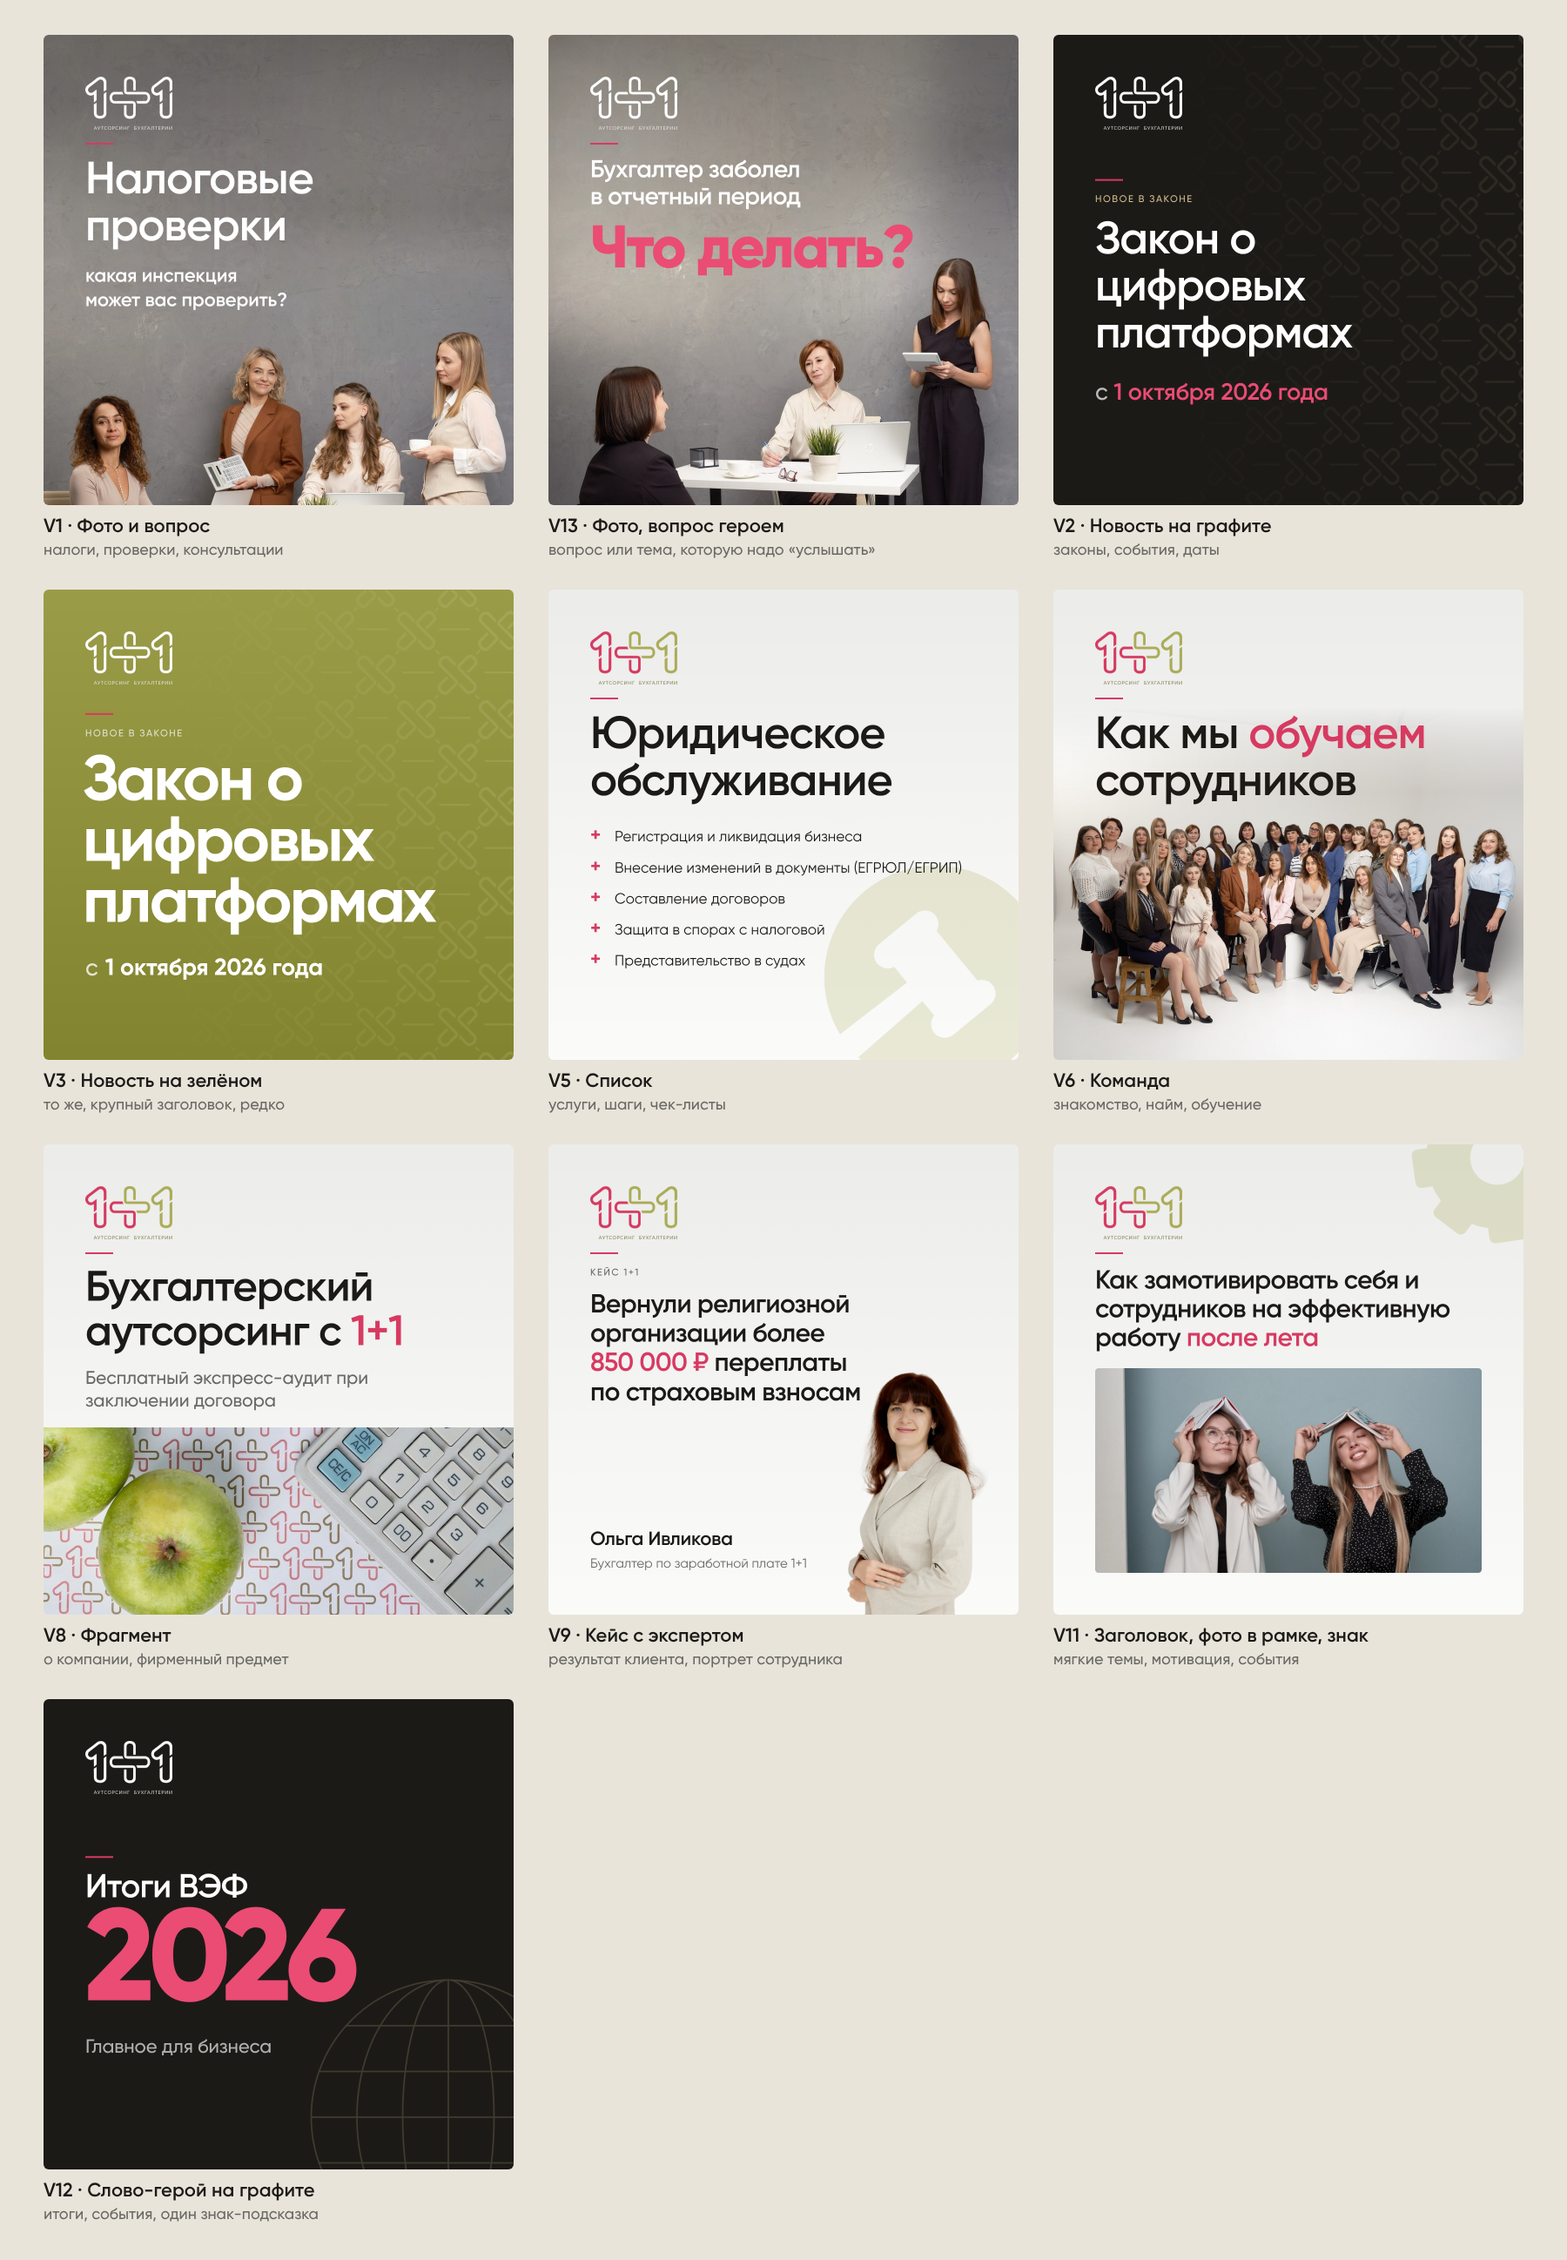
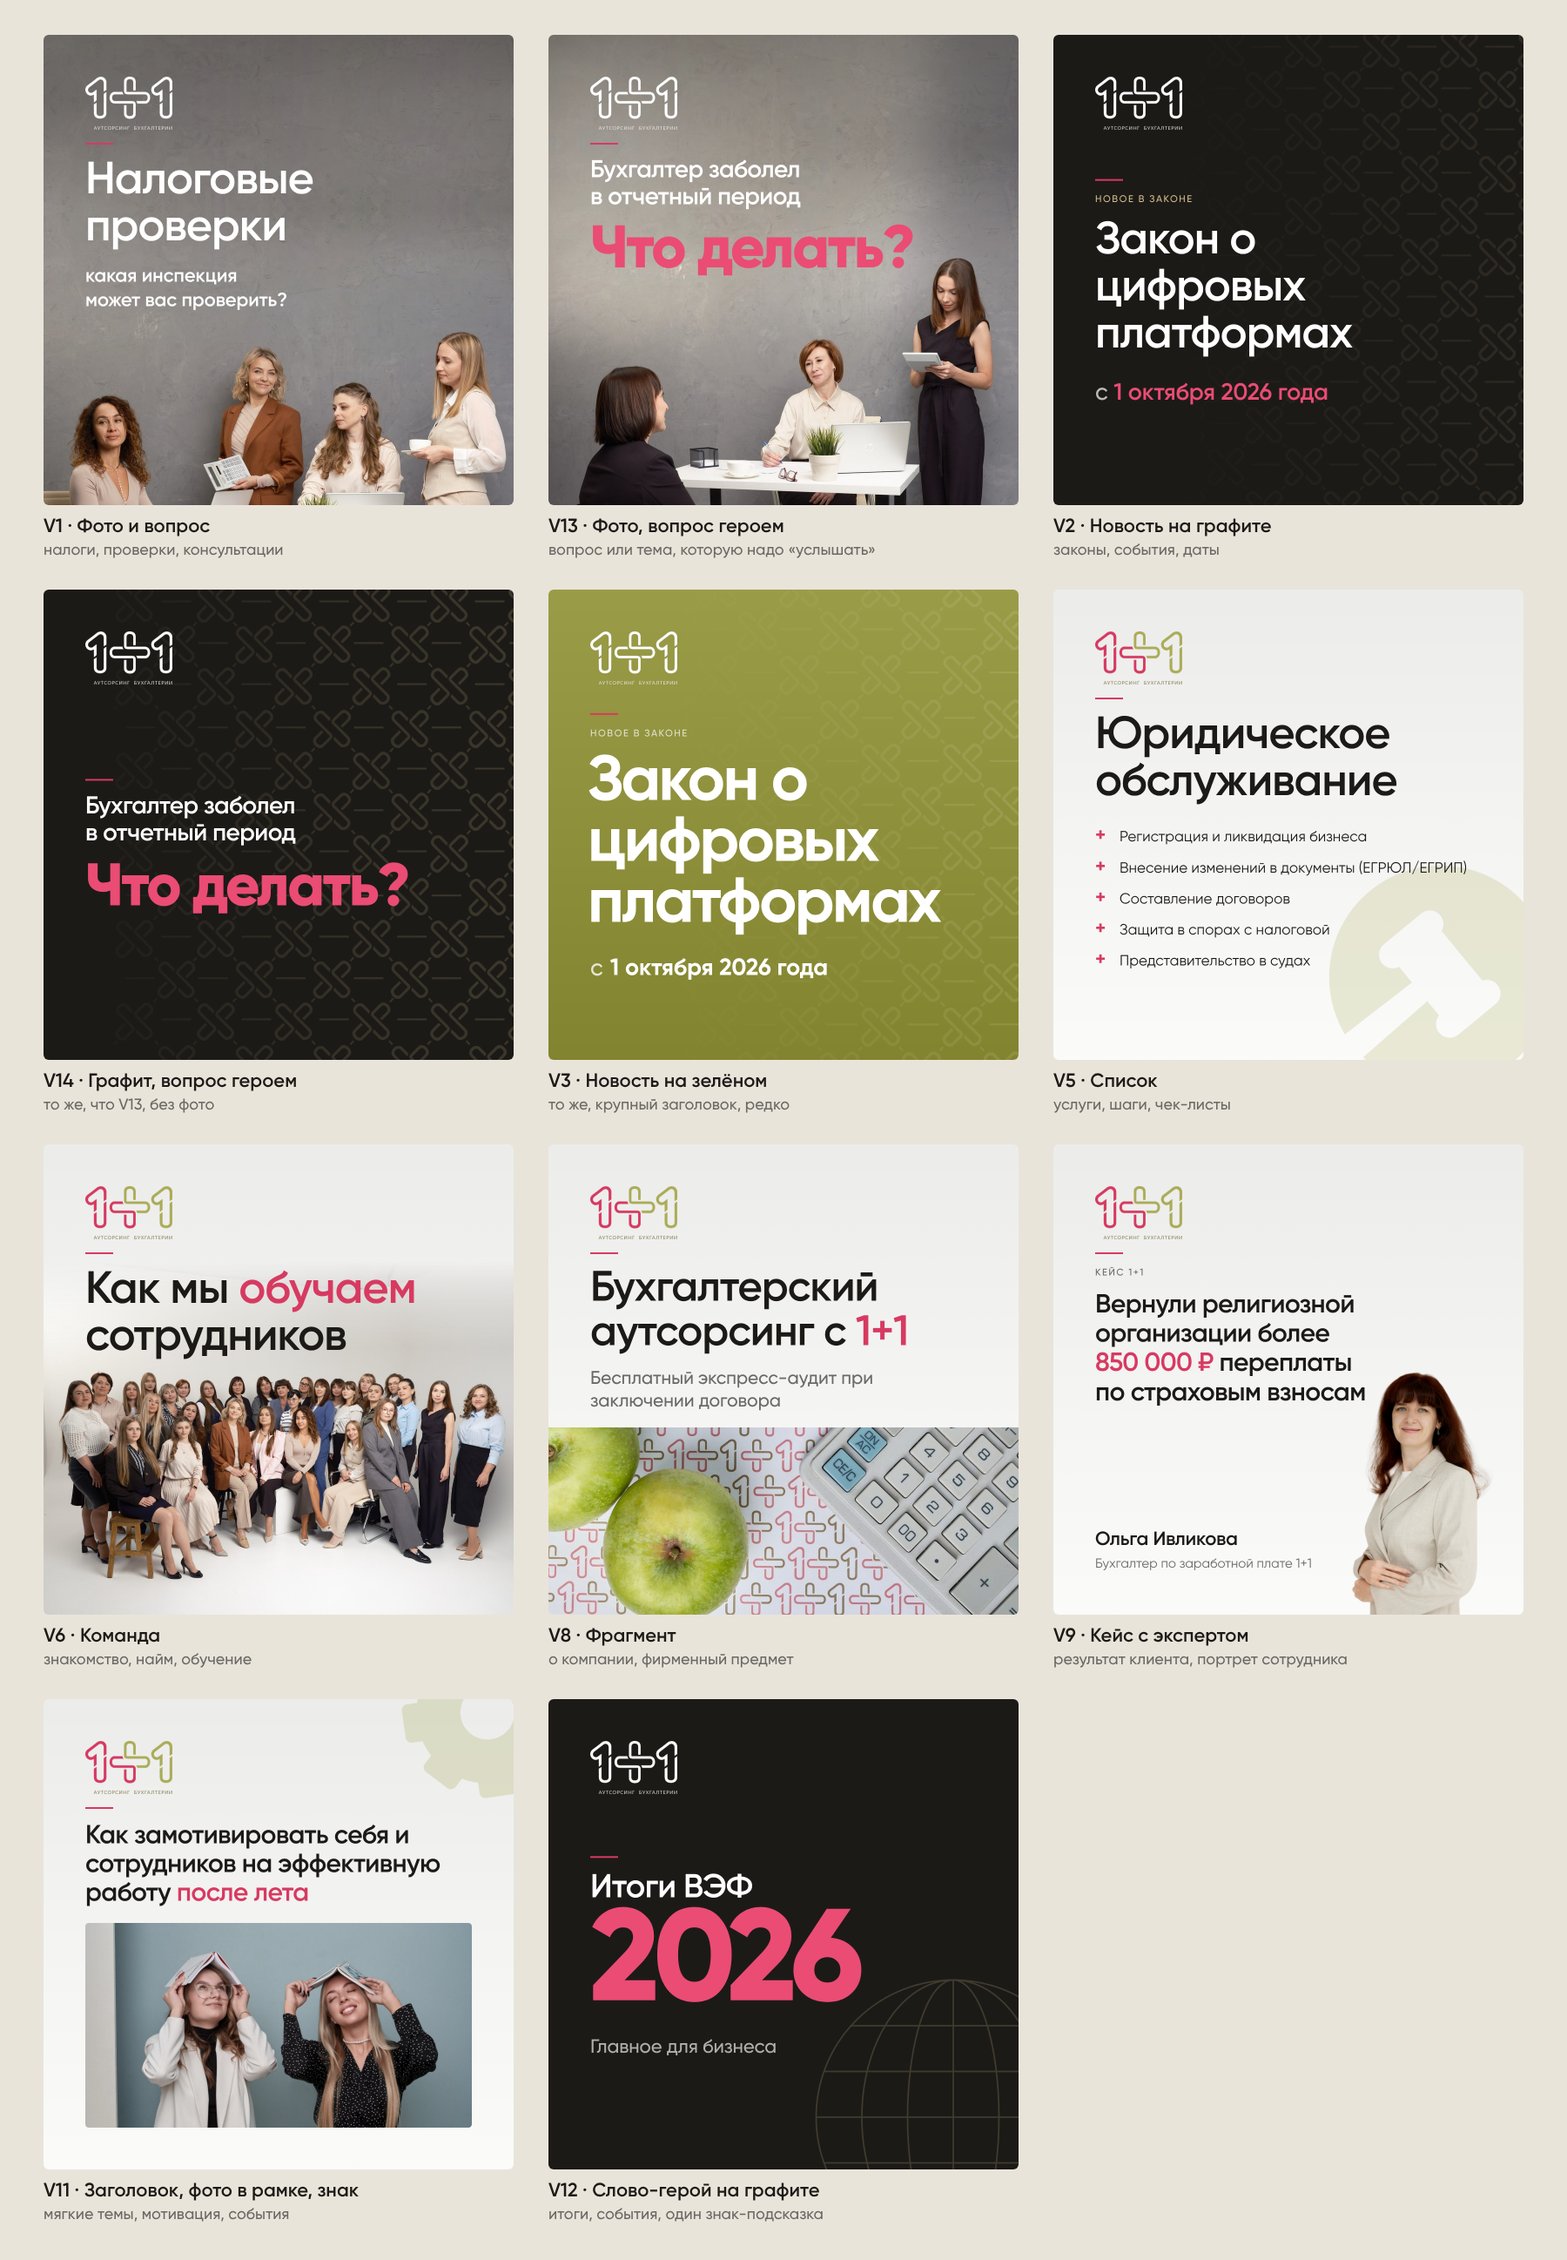
Add V14 graphite hero question; no trailing full stop rule
Claude-Session: https://claude.ai/code/session_01VZ7Hrkur6jxoGp5f6QSiLJ

diff --git a/specimens/tile.html b/specimens/tile.html
@@ -1,7 +1,7 @@
 <!doctype html><html lang="ru"><head><meta charset="utf-8"><title>Все макеты</title>
 <style>
 @font-face{font-family:Gilroy;font-weight:600;src:url(../assets/fonts/Gilroy-Semibold.ttf)}
-html,body{margin:0;background:#E9E9E7;width:2144px;font-family:Gilroy,sans-serif}
+html,body{margin:0;background:#E9E9E7;width:1960px;font-family:Gilroy,sans-serif}
 .wrap{padding:36px 40px 40px;display:flex;flex-direction:column;gap:16px;align-items:center}
 .row{display:flex;gap:16px}
 .t{position:relative;width:400px;height:400px;border-radius:4px;overflow:hidden}
@@ -12,12 +12,15 @@ html,body{margin:0;background:#E9E9E7;width:2144px;font-family:Gilroy,sans-serif
 <div class="t"><img src="v1-photo-question.png"><b>V1</b></div>
 <div class="t"><img src="v13-photo-hero-question.png"><b>V13</b></div>
 <div class="t"><img src="v2-news-graphite.png"><b>V2</b></div>
-<div class="t"><img src="v3-news-green.png"><b>V3</b></div>
-<div class="t"><img src="v5-list.png"><b>V5</b></div>
+<div class="t"><img src="v14-graphite-hero-question.png"><b>V14</b></div>
 </div>
 <div class="row">
+<div class="t"><img src="v3-news-green.png"><b>V3</b></div>
+<div class="t"><img src="v5-list.png"><b>V5</b></div>
 <div class="t"><img src="v6-team.png"><b>V6</b></div>
 <div class="t"><img src="v8-fragment.png"><b>V8</b></div>
+</div>
+<div class="row">
 <div class="t"><img src="v9-case.png"><b>V9</b></div>
 <div class="t"><img src="v11-photo-frame.png"><b>V11</b></div>
 <div class="t"><img src="v12-word-graphite.png"><b>V12</b></div>

diff --git a/specimens/catalog.html b/specimens/catalog.html
@@ -13,6 +13,7 @@ figcaption span{display:block;margin-top:2px;font-size:18px;font-weight:500;colo
 <figure><img src="v1-photo-question.png"><figcaption>V1 · Фото и вопрос<span>налоги, проверки, консультации</span></figcaption></figure>
 <figure><img src="v13-photo-hero-question.png"><figcaption>V13 · Фото, вопрос героем<span>вопрос или тема, которую надо «услышать»</span></figcaption></figure>
 <figure><img src="v2-news-graphite.png"><figcaption>V2 · Новость на графите<span>законы, события, даты</span></figcaption></figure>
+<figure><img src="v14-graphite-hero-question.png"><figcaption>V14 · Графит, вопрос героем<span>то же, что V13, без фото</span></figcaption></figure>
 <figure><img src="v3-news-green.png"><figcaption>V3 · Новость на зелёном<span>то же, крупный заголовок, редко</span></figcaption></figure>
 <figure><img src="v5-list.png"><figcaption>V5 · Список<span>услуги, шаги, чек-листы</span></figcaption></figure>
 <figure><img src="v6-team.png"><figcaption>V6 · Команда<span>знакомство, найм, обучение</span></figcaption></figure>

diff --git a/specimens/v14-graphite-hero-question.html b/specimens/v14-graphite-hero-question.html
@@ -1,0 +1,9 @@
+<!doctype html><html lang="ru"><head><meta charset="utf-8"><title>Графит, вопрос героем</title><link rel="stylesheet" href="base.css">
+<style>.canvas{background:var(--graphite);color:#fff}.pattern{position:absolute;right:-260px;top:-120px;width:1180px;height:1550px;background:url(../assets/pattern-2.png) center/cover;opacity:.2;-webkit-mask-image:linear-gradient(to left,#000 0,rgba(0,0,0,.7) 55%,rgba(0,0,0,.15) 100%);mask-image:linear-gradient(to left,#000 0,rgba(0,0,0,.7) 55%,rgba(0,0,0,.15) 100%)}
+.t{font-weight:600;font-size:56px;line-height:1.1;letter-spacing:-.02em}
+.n{margin-top:30px;font-weight:800;font-size:138px;line-height:.95;letter-spacing:-.035em;color:var(--crimson-on-dark);white-space:nowrap}</style></head><body>
+<div class="canvas dark"><div class="pattern"></div>
+<img class="logo" src="../assets/logo-full-white.png" alt="">
+<div class="text-mid"><div class="dash"></div>
+<div class="t">Бухгалтер заболел<br>в&nbsp;отчетный период</div>
+<div class="n">Что делать?</div></div></div></body></html>

diff --git a/docs/layout-catalog.md b/docs/layout-catalog.md
@@ -28,7 +28,7 @@
 | команда, найм, обучение, знакомство | **V6** | `v6-team.png` |
 | о компании, фирменный предмет, предложение | **V8** | `v8-fragment.png` |
 | кейс клиента, эксперт с портретом | **V9** | `v9-case.png` |
-| вопрос или тема, которую нужно «услышать»; крупный вопрос поверх чистой стены | **V13** | `v13-photo-hero-question.png` |
+| вопрос или тема, которую нужно «услышать»; крупный вопрос поверх чистой стены | **V13** (с фото) или **V14** (на графите, без фото) | `v13-photo-hero-question.png`, `v14-graphite-hero-question.png` |
 | мягкая тема с фото в рамке и знаком (мотивация, события) | **V11** | `v11-photo-frame.png` |
 | итоги, событие: одно крупное слово или число на графите, знак-подсказка | **V12** | `v12-word-graphite.png` |
 
@@ -62,6 +62,18 @@
   выше голов и не касается их по горизонтали. Если «?» подходит к голове ближе 24 px, уменьшить вопрос на ступень.
 - **Логотип:** белый, 200 px. Фото не затемняется, лёгкий градиент сверху 0,34 → 0.
 - **Лимит:** вопрос длиннее 11 знаков не используется как герой, берётся V1.
+
+---
+
+## V14 · Графит, вопрос героем
+
+- **Когда:** то же, что V13, но без подходящего фото, или нужен тёмный регистр. Пара к V13: два макета одной серии.
+- **Герой:** вопрос 138 px Extrabold `crimson-on-dark` (`#EA4C74`), одна строка на 888 px; контекст над ним 56 px
+  SemiBold белый, две строки, без завершающей точки.
+- **Фон:** `graphite` + `pattern-2.png` на весь холст, прозрачность 20%, маска ослабляет узор к левому краю,
+  чтобы текст читался. Это единственный декор, знака нет.
+- **Блок:** `text-mid` (центр на 55% высоты), малиновая черта 64×4 над блоком.
+- **Лимит:** как в V13, вопрос не длиннее 11 знаков. Узор может быть заметнее, чем у V2: заголовок крупнее.
 
 ---
 
@@ -143,6 +155,8 @@
 ---
 
 ## Общее у всех вариантов
+
+**Точка.** Заголовки и мелкий текст-вопрос не заканчиваются точкой; многоточие и вопросительный знак остаются.
 
 | Параметр | Значение |
 |---|---|

diff --git a/docs/readme-v2.md b/docs/readme-v2.md
@@ -119,7 +119,8 @@ Gilroy — единственный шрифт. Файлы Light–Extrabold в 
 
 - **Метка** — короткая подпись над заголовком («НОВОЕ В ЗАКОНЕ»), перед ней малиновая или белая
   черта 64×3 px. Только если категория дана в задаче.
-- **Заголовок** — со строчных. Капс используется только в метках.
+- **Заголовок** — со строчных. Капс используется только в метках. Заголовок и мелкий текст-вопрос не
+  заканчиваются точкой (`?` и `…` остаются).
 - **Три размера на макет:** герой, второй уровень, мелкий. Четвёртый — признак перегруза.
 - **Акцент в заголовке** — цветом слова. Подчёркивание и сплошное выделение каждого слова
   не используются.
@@ -227,7 +228,7 @@ Gilroy — единственный шрифт. Файлы Light–Extrabold в 
 
 ## 9. Каталог макетов
 
-Десять утверждённых вариантов. Задача выбирается **по каталогу**: Claude Design
+Одиннадцать утверждённых вариантов. Задача выбирается **по каталогу**: Claude Design
 определяет тип контента, берёт один вариант, подставляет текст и фото. Подробные слоты, лимиты и
 эталоны — `docs/layout-catalog.md`, обзор — `specimens/catalog.png`.
 

diff --git a/specimens/README.md b/specimens/README.md
@@ -1,6 +1,6 @@
 # Каталог макетов v2
 
-Десять утверждённых вариантов, 1080×1080, слоты и лимиты — `docs/layout-catalog.md`.
+Одиннадцать утверждённых вариантов, 1080×1080, слоты и лимиты — `docs/layout-catalog.md`.
 Рендер: `./render.sh <имя без расширения>` (Chromium). Gilroy берётся из `assets/fonts/` (в git не хранится
 из-за лицензии, лежит на Drive в папке `fonts`). Общая плитка: `tile.png`, обзор с подписями: `catalog.png`.
 Снятые варианты (V1-А, V4, V7, V10) лежат в `archive/`. Плашек в системе нет.
@@ -9,6 +9,7 @@
 |---|---|
 | `v1-photo-question` | V1, фото и вопрос, кадр `concrete-0283` |
 | `v13-photo-hero-question` | V13, фото, вопрос героем, `concrete-0259` |
+| `v14-graphite-hero-question` | V14, графит с паттерном, вопрос героем |
 | `v2-news-graphite` | V2, новость на графите, `pattern-2` |
 | `v3-news-green` | V3, новость на зелёном, заголовок 146 px |
 | `v5-list` | V5, список, водяной знак `gavel` |
